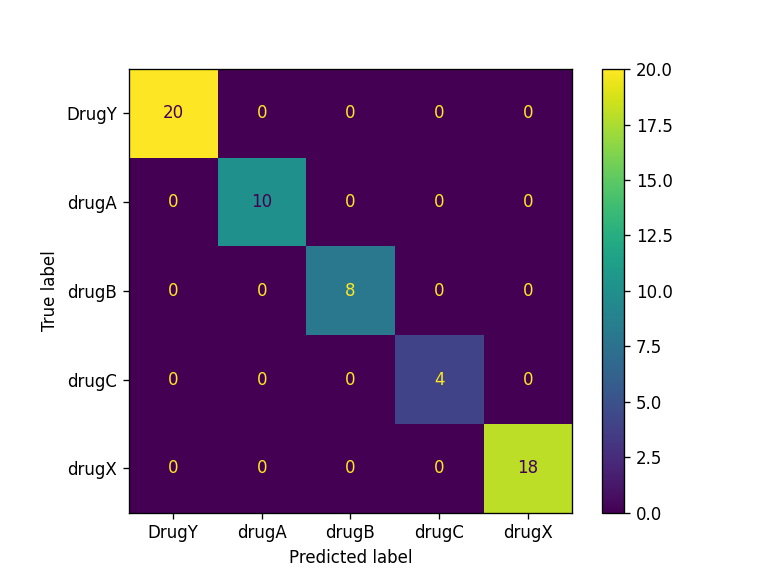
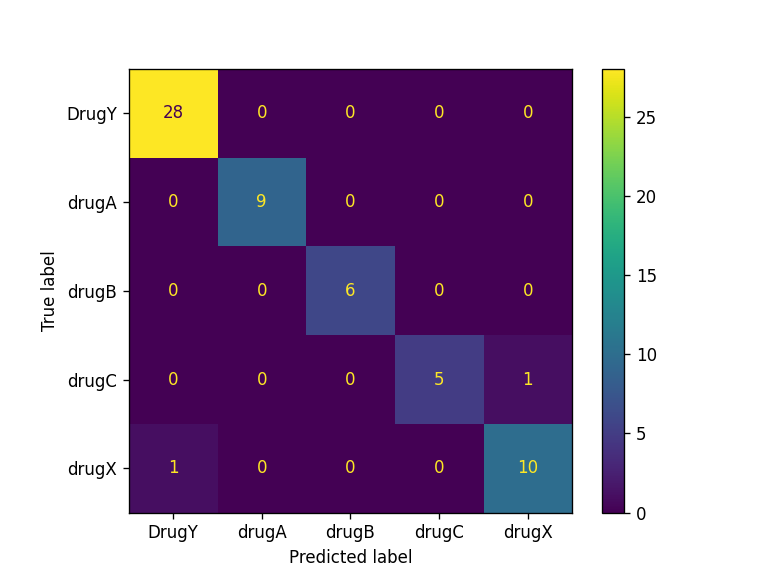
Update model results

diff --git a/report.md b/report.md
@@ -1,5 +1,5 @@
 ## Model Metrics
 
-Accuracy = 1.0, F1 Score = 1.0
+Accuracy = 0.97, F1 Score = 0.96
 ## Confusion Matrix Plot
 ![Confusion Matrix](./Results/model_results.png)
